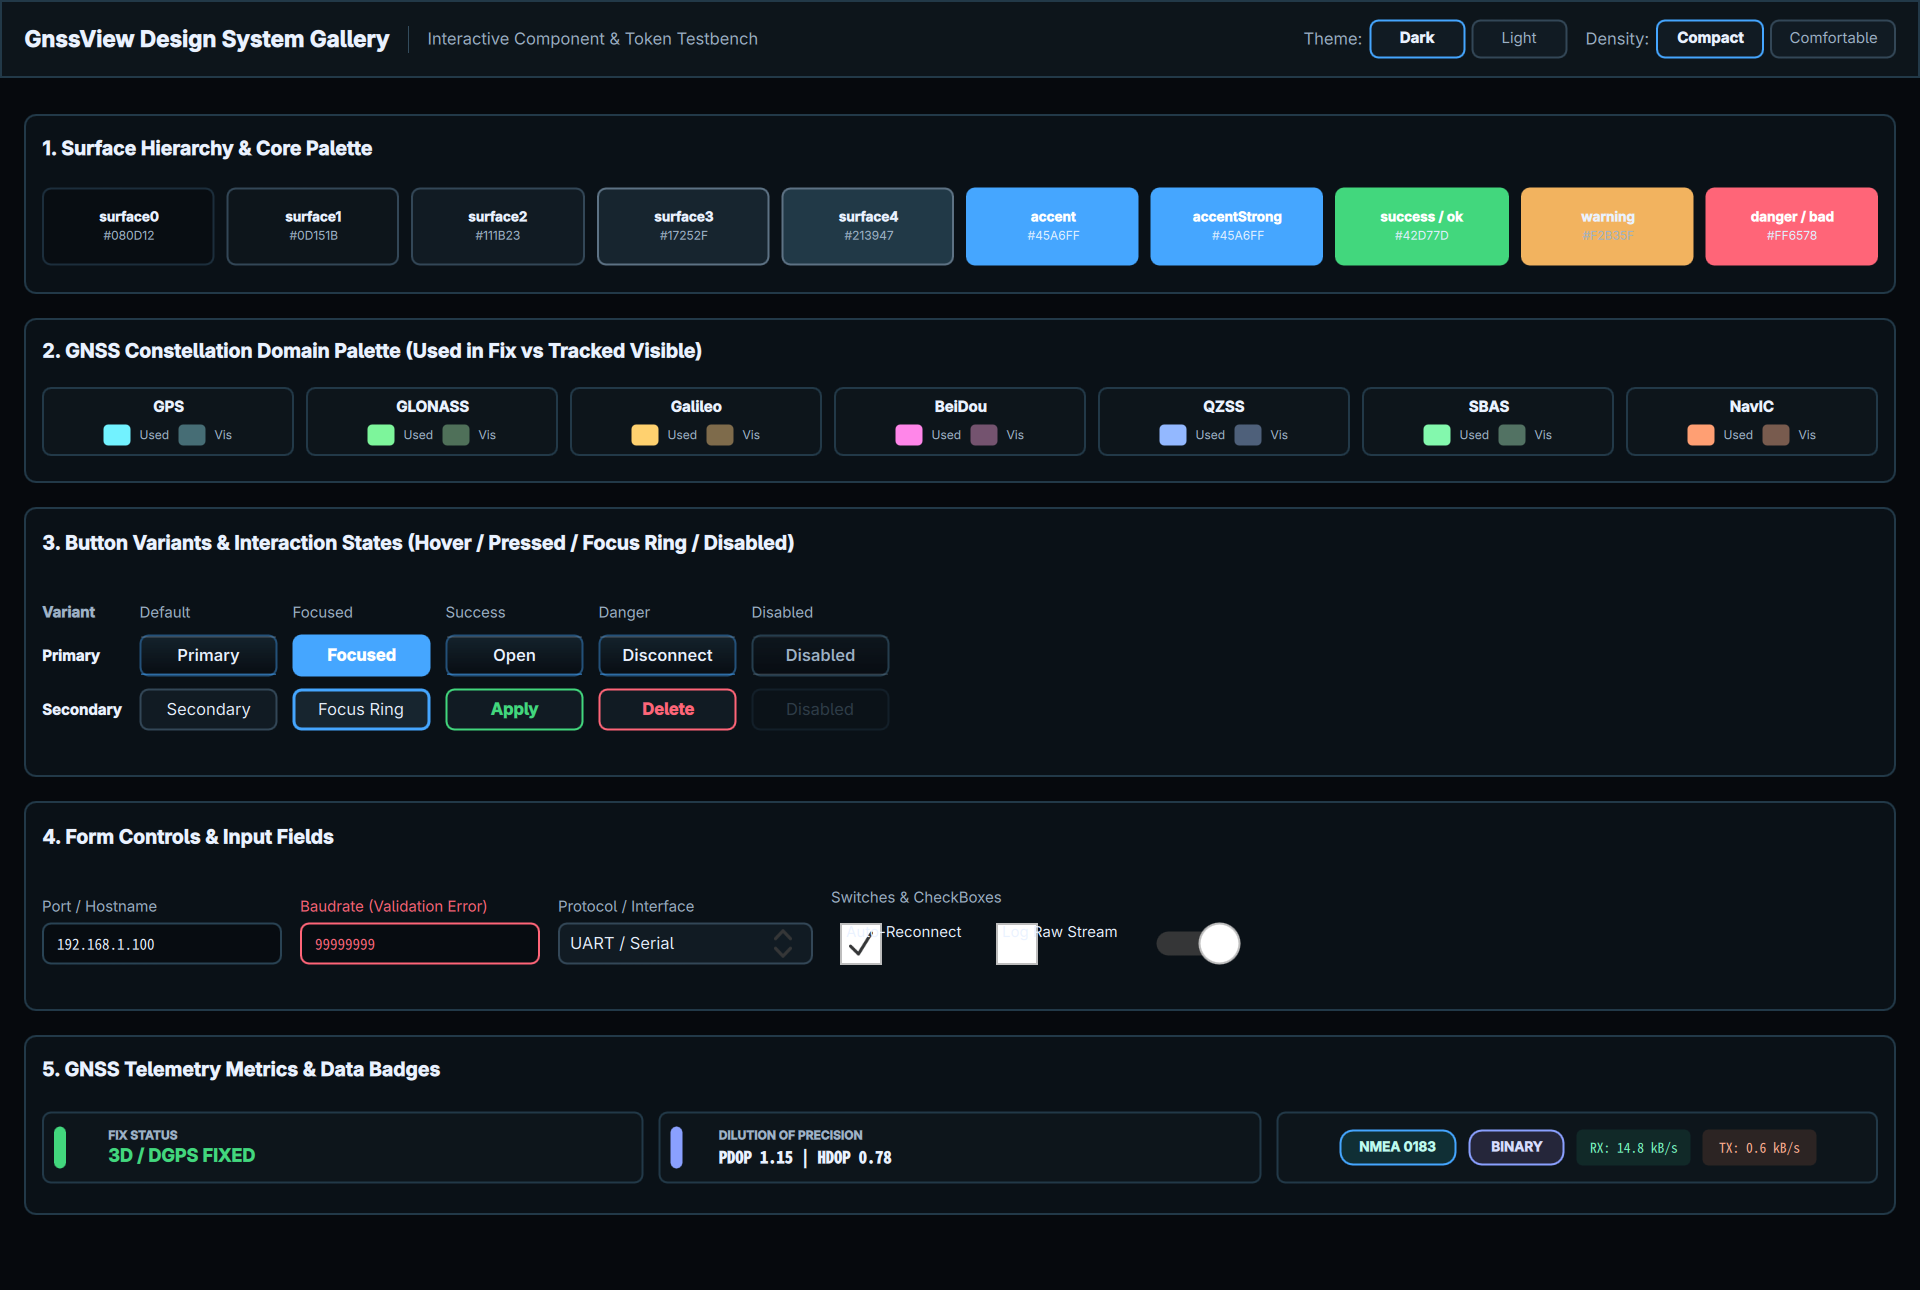
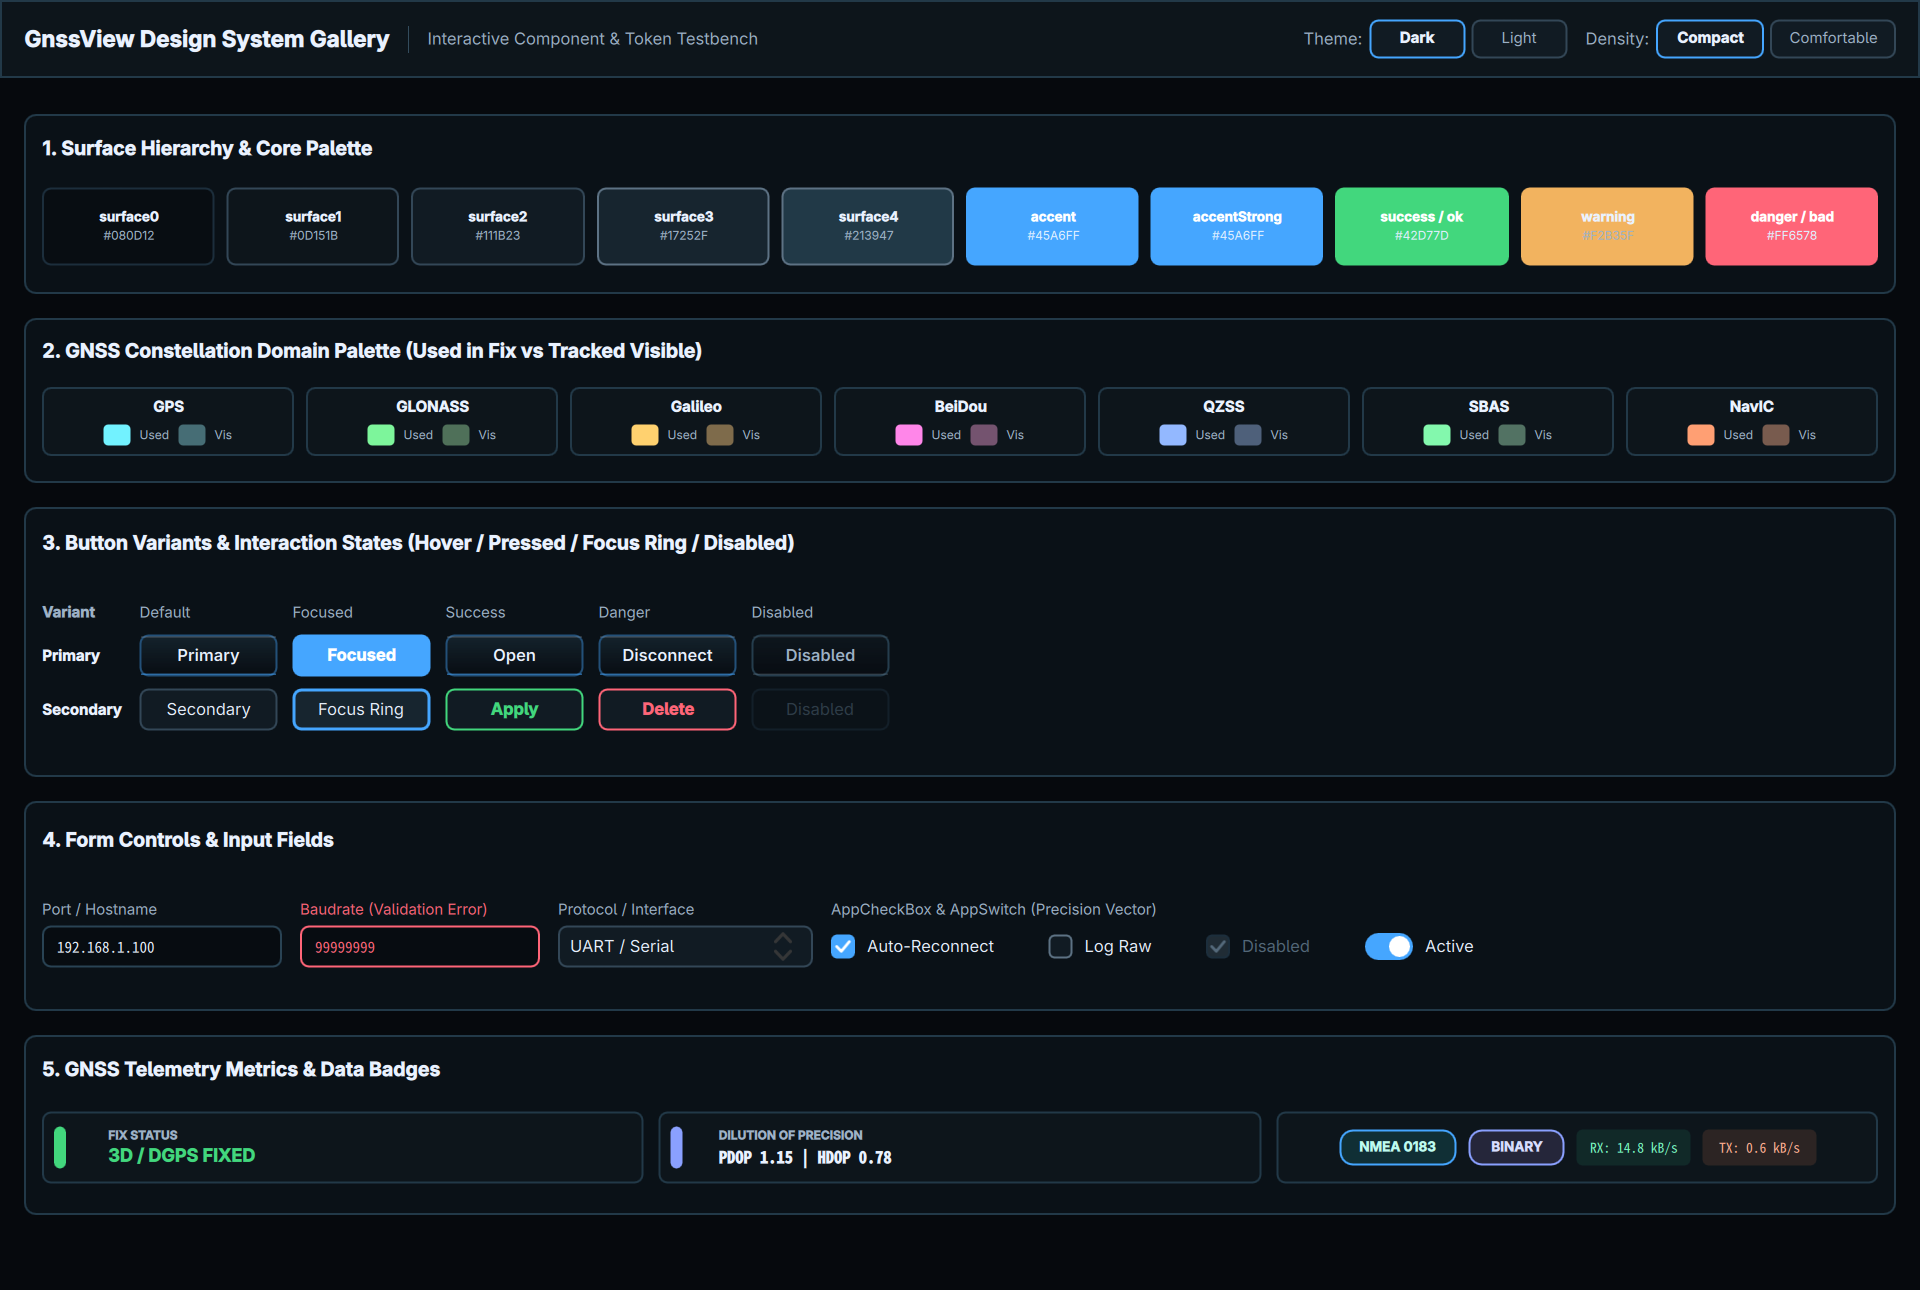
fix(ui): implement modern precision AppCheckBox and AppSwitch, replace crude glyph in SettingsPanel

Changed region(s): [[0.0312, 0.6202, 0.75, 0.7752]]

diff --git a/src/ui/qml/components/AppCheckBox.qml b/src/ui/qml/components/AppCheckBox.qml
@@ -1,0 +1,127 @@
+import QtQuick
+import QtQuick.Controls
+
+CheckBox {
+    id: control
+
+    property int indicatorSize: theme.isCompact ? 16 : 18
+    property color accentColor: theme.accentStrong
+    property bool wrapText: false
+
+    Theme {
+        id: theme
+    }
+
+    implicitHeight: Math.max(theme.controlHeight, indicatorSize + 4)
+    implicitWidth: indicator.width + spacing + (contentItem ? contentItem.implicitWidth : 0) + leftPadding + rightPadding
+    spacing: 8
+    leftPadding: 0
+    rightPadding: 0
+    topPadding: 0
+    bottomPadding: 0
+    hoverEnabled: true
+
+    font.family: theme.bodyFont
+    font.pixelSize: theme.bodySize
+
+    indicator: Rectangle {
+        id: indicatorBox
+        implicitWidth: control.indicatorSize
+        implicitHeight: control.indicatorSize
+        x: control.leftPadding
+        y: Math.round((control.height - height) * 0.5)
+        radius: 4
+        antialiasing: true
+
+        color: {
+            if (!control.enabled) {
+                return control.checked
+                    ? Qt.rgba(theme.textDisabled.r, theme.textDisabled.g, theme.textDisabled.b, 0.3)
+                    : Qt.rgba(theme.surface2.r, theme.surface2.g, theme.surface2.b, 0.4)
+            }
+            if (control.checked || control.checkState === Qt.PartiallyChecked) {
+                return control.down
+                    ? Qt.darker(control.accentColor, 1.15)
+                    : (control.hovered ? Qt.lighter(control.accentColor, 1.08) : control.accentColor)
+            }
+            return control.down ? theme.surface4 : (control.hovered ? theme.surface3 : theme.surface2)
+        }
+
+        border.width: control.visualFocus ? 2 : 1
+        border.color: {
+            if (!control.enabled) return theme.borderSubtle
+            if (control.visualFocus) return theme.focusRingStrong
+            if (control.checked) return control.accentColor
+            return control.hovered ? theme.borderHover : theme.borderStrong
+        }
+
+        // Focus halo ring
+        Rectangle {
+            anchors.fill: parent
+            anchors.margins: -3
+            radius: parent.radius + 2
+            visible: control.visualFocus
+            color: "transparent"
+            border.width: 2
+            border.color: theme.focusRing
+        }
+
+        // Precision vector checkmark
+        Canvas {
+            id: checkCanvas
+            anchors.fill: parent
+            anchors.margins: 1
+            visible: control.checked || control.checkState === Qt.PartiallyChecked
+            opacity: (control.checked || control.checkState === Qt.PartiallyChecked) ? 1.0 : 0.0
+
+            Behavior on opacity {
+                NumberAnimation { duration: 90; easing.type: Easing.OutQuad }
+            }
+
+            onPaint: {
+                var ctx = getContext("2d")
+                ctx.reset()
+                var w = width
+                var h = height
+                ctx.strokeStyle = control.enabled ? "#ffffff" : theme.textDisabled
+                ctx.lineWidth = 1.85
+                ctx.lineCap = "round"
+                ctx.lineJoin = "round"
+
+                if (control.checkState === Qt.PartiallyChecked) {
+                    ctx.beginPath()
+                    ctx.moveTo(w * 0.22, h * 0.5)
+                    ctx.lineTo(w * 0.78, h * 0.5)
+                    ctx.stroke()
+                } else if (control.checked) {
+                    ctx.beginPath()
+                    ctx.moveTo(w * 0.20, h * 0.50)
+                    ctx.lineTo(w * 0.42, h * 0.73)
+                    ctx.lineTo(w * 0.80, h * 0.27)
+                    ctx.stroke()
+                }
+            }
+
+            Connections {
+                target: control
+                function onCheckedChanged() { checkCanvas.requestPaint() }
+                function onCheckStateChanged() { checkCanvas.requestPaint() }
+                function onEnabledChanged() { checkCanvas.requestPaint() }
+            }
+            Connections {
+                target: theme
+                function onLightModeChanged() { checkCanvas.requestPaint() }
+            }
+        }
+    }
+
+    contentItem: Text {
+        leftPadding: control.indicator.width + control.spacing
+        text: control.text
+        font: control.font
+        color: control.enabled ? theme.textPrimary : theme.textDisabled
+        verticalAlignment: Text.AlignVCenter
+        elide: control.wrapText ? Text.ElideNone : Text.ElideRight
+        wrapMode: control.wrapText ? Text.WordWrap : Text.NoWrap
+    }
+}

diff --git a/src/ui/qml/components/SettingsPanel.qml b/src/ui/qml/components/SettingsPanel.qml
@@ -114,43 +114,8 @@ Popup {
         font.bold: true
     }
 
-    component SettingsCheckBox: CheckBox {
-        id: control
-        spacing: 10
-        font.family: theme.bodyFont
-        font.pixelSize: theme.bodySize
-        leftPadding: indicator.width + spacing
-        implicitHeight: theme.controlHeight
-
-        indicator: Rectangle {
-            implicitWidth: 22
-            implicitHeight: 22
-            x: 0
-            y: parent.topPadding + (parent.availableHeight - height) * 0.5
-            radius: 6
-            color: control.checked
-                ? Qt.rgba(theme.accentStrong.r, theme.accentStrong.g, theme.accentStrong.b, 0.18)
-                : Qt.rgba(theme.surface2.r, theme.surface2.g, theme.surface2.b, 0.94)
-            border.width: 1
-            border.color: control.checked ? theme.accentStrong : theme.panelBorderStrong
-
-            Text {
-                anchors.centerIn: parent
-                text: control.checked ? "✓" : ""
-                color: theme.textPrimary
-                font.family: theme.titleFont
-                font.pixelSize: 15
-                font.bold: true
-            }
-        }
-
-        contentItem: Text {
-            text: control.text
-            font: control.font
-            color: control.enabled ? theme.textPrimary : theme.textSecondary
-            verticalAlignment: Text.AlignVCenter
-            wrapMode: Text.WordWrap
-        }
+    component SettingsCheckBox: AppCheckBox {
+        wrapText: true
     }
 
     component SettingsSection: Rectangle {
@@ -405,43 +370,8 @@ Popup {
         }
     }
 
-    component PluginFieldCheckBox: CheckBox {
-        id: control
-        spacing: 10
-        font.family: theme.bodyFont
-        font.pixelSize: theme.bodySize
-        leftPadding: indicator.width + spacing
-        implicitHeight: theme.controlHeight
-
-        indicator: Rectangle {
-            implicitWidth: 22
-            implicitHeight: 22
-            x: 0
-            y: parent.topPadding + (parent.availableHeight - height) * 0.5
-            radius: 6
-            color: control.checked
-                ? Qt.rgba(theme.accentStrong.r, theme.accentStrong.g, theme.accentStrong.b, 0.18)
-                : Qt.rgba(theme.surface2.r, theme.surface2.g, theme.surface2.b, 0.94)
-            border.width: 1
-            border.color: control.checked ? theme.accentStrong : theme.panelBorderStrong
-
-            Text {
-                anchors.centerIn: parent
-                text: control.checked ? "✓" : ""
-                color: theme.textPrimary
-                font.family: theme.titleFont
-                font.pixelSize: 15
-                font.bold: true
-            }
-        }
-
-        contentItem: Text {
-            text: control.text
-            font: control.font
-            color: control.enabled ? theme.textPrimary : theme.textSecondary
-            verticalAlignment: Text.AlignVCenter
-            wrapMode: Text.WordWrap
-        }
+    component PluginFieldCheckBox: AppCheckBox {
+        wrapText: true
     }
 
     Component {

diff --git a/src/ui/qml/components/AppSwitch.qml b/src/ui/qml/components/AppSwitch.qml
@@ -1,0 +1,92 @@
+import QtQuick
+import QtQuick.Controls
+
+Switch {
+    id: control
+
+    property color accentColor: theme.accentStrong
+
+    Theme {
+        id: theme
+    }
+
+    implicitWidth: indicator.width + (contentItem && text.length > 0 ? spacing + contentItem.implicitWidth : 0) + leftPadding + rightPadding
+    implicitHeight: Math.max(theme.controlHeight, 22)
+    spacing: 8
+    leftPadding: 0
+    rightPadding: 0
+    topPadding: 0
+    bottomPadding: 0
+    hoverEnabled: true
+
+    font.family: theme.bodyFont
+    font.pixelSize: theme.bodySize
+
+    indicator: Rectangle {
+        id: track
+        implicitWidth: theme.isCompact ? 32 : 36
+        implicitHeight: theme.isCompact ? 18 : 20
+        x: control.leftPadding
+        y: Math.round((control.height - height) * 0.5)
+        radius: height * 0.5
+        antialiasing: true
+
+        color: {
+            if (!control.enabled) {
+                return control.checked
+                    ? Qt.rgba(theme.textDisabled.r, theme.textDisabled.g, theme.textDisabled.b, 0.3)
+                    : Qt.rgba(theme.surface3.r, theme.surface3.g, theme.surface3.b, 0.4)
+            }
+            if (control.checked) {
+                return control.down ? Qt.darker(control.accentColor, 1.15)
+                                    : (control.hovered ? Qt.lighter(control.accentColor, 1.08) : control.accentColor)
+            }
+            return control.down ? theme.surface4 : (control.hovered ? theme.surface3 : theme.surface2)
+        }
+
+        border.width: control.visualFocus ? 2 : 1
+        border.color: {
+            if (!control.enabled) return theme.borderSubtle
+            if (control.visualFocus) return theme.focusRingStrong
+            if (control.checked) return control.accentColor
+            return control.hovered ? theme.borderHover : theme.borderStrong
+        }
+
+        // Focus halo ring
+        Rectangle {
+            anchors.fill: parent
+            anchors.margins: -3
+            radius: parent.radius + 2
+            visible: control.visualFocus
+            color: "transparent"
+            border.width: 2
+            border.color: theme.focusRing
+        }
+
+        // Sliding knob
+        Rectangle {
+            id: thumb
+            width: parent.height - 4
+            height: parent.height - 4
+            y: 2
+            x: control.checked ? (parent.width - width - 2) : 2
+            radius: width * 0.5
+            color: control.enabled ? "#ffffff" : theme.textDisabled
+            antialiasing: true
+
+            Behavior on x {
+                NumberAnimation { duration: 120; easing.type: Easing.OutCubic }
+            }
+        }
+    }
+
+    contentItem: Text {
+        leftPadding: control.indicator.width + control.spacing
+        text: control.text
+        font: control.font
+        color: control.enabled ? theme.textPrimary : theme.textDisabled
+        verticalAlignment: Text.AlignVCenter
+        elide: Text.ElideRight
+        visible: control.text.length > 0
+    }
+}

diff --git a/src/ui/qml/components/ControlGallery.qml b/src/ui/qml/components/ControlGallery.qml
@@ -543,26 +543,32 @@ Rectangle {
                                 }
                             }
 
-                            // Checkboxes
+                            // Checkboxes & Switches
                             ColumnLayout {
                                 spacing: 4
-                                Label { text: "Switches & CheckBoxes"; color: theme.textSecondary; font.pixelSize: 10 }
+                                Label { text: "AppCheckBox & AppSwitch (Precision Vector)"; color: theme.textSecondary; font.pixelSize: 10 }
                                 RowLayout {
-                                    spacing: 10
-                                    CheckBox {
+                                    spacing: 12
+                                    AppCheckBox {
                                         id: cb1
                                         text: "Auto-Reconnect"
                                         checked: true
-                                        contentItem: Text { leftPadding: 4; text: cb1.text; color: theme.textPrimary; font.pixelSize: 10 }
                                     }
-                                    CheckBox {
+                                    AppCheckBox {
                                         id: cb2
-                                        text: "Log Raw Stream"
+                                        text: "Log Raw"
                                         checked: false
-                                        contentItem: Text { leftPadding: 4; text: cb2.text; color: theme.textPrimary; font.pixelSize: 10 }
                                     }
-                                    Switch {
+                                    AppCheckBox {
+                                        id: cb3
+                                        text: "Disabled"
                                         checked: true
+                                        enabled: false
+                                    }
+                                    AppSwitch {
+                                        id: sw1
+                                        checked: true
+                                        text: "Active"
                                     }
                                 }
                             }
